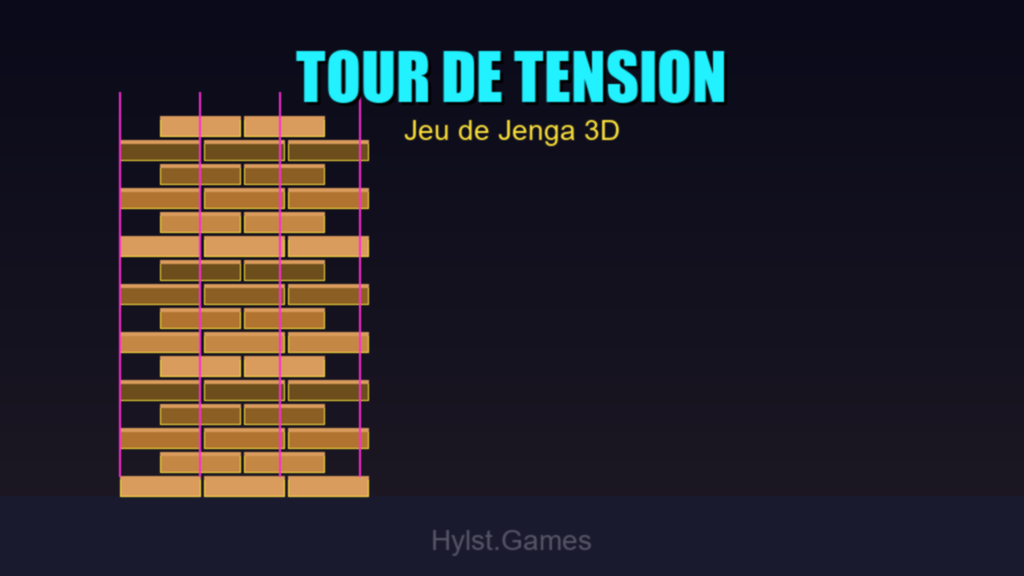
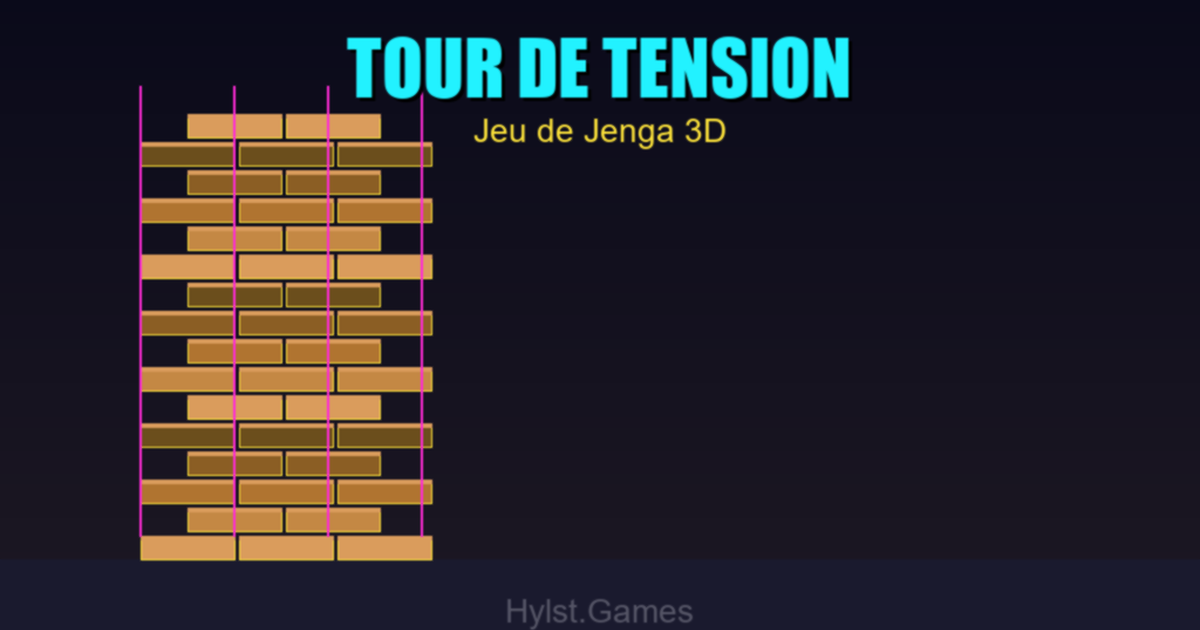
Open Graph : image 1200 x 630 et metadonnees completes

Changed region(s): [[0.0938, 0.0312, 0.7188, 0.4688], [0.0938, 0.5, 0.375, 0.9062], [0.4062, 0.9062, 0.5938, 1.0]]

diff --git a/index.html b/index.html
@@ -10,13 +10,17 @@
     <meta property="og:type" content="website" />
     <meta property="og:title" content="Tour de Tension — Jeu de tour de blocs 3D" />
     <meta property="og:description" content="Défie tes amis dans ce jeu de tour de blocs 3D ! Retire des blocs, empile-les et surveille le danger. Modèle de stabilité réaliste en temps réel." />
-    <meta property="og:image" content="https://games.hylst.fr/tourdetension/og-image.png" />
+    <meta property="og:image" content="https://games.hylst.fr/tourdetension/og-image.png?v=2" />
+    <meta property="og:image:type" content="image/png" />
+    <meta property="og:image:width" content="1200" />
+    <meta property="og:image:height" content="630" />
+    <meta property="og:image:alt" content="Tour de Tension" />
     <meta property="og:url" content="https://games.hylst.fr/tourdetension/" />
     <meta property="og:site_name" content="Hylst.Games" />
     <meta name="twitter:card" content="summary_large_image" />
     <meta name="twitter:title" content="Tour de Tension — Jeu de tour de blocs 3D" />
     <meta name="twitter:description" content="Défie tes amis dans ce jeu de tour de blocs 3D ! Modèle de stabilité réaliste en temps réel." />
-    <meta name="twitter:image" content="https://games.hylst.fr/tourdetension/og-image.png" />
+    <meta name="twitter:image" content="https://games.hylst.fr/tourdetension/og-image.png?v=2" />
     <meta name="robots" content="index, follow" />
     <link rel="canonical" href="https://games.hylst.fr/tourdetension/" />
     <link rel="icon" type="image/webp" href="favicon.webp" />
